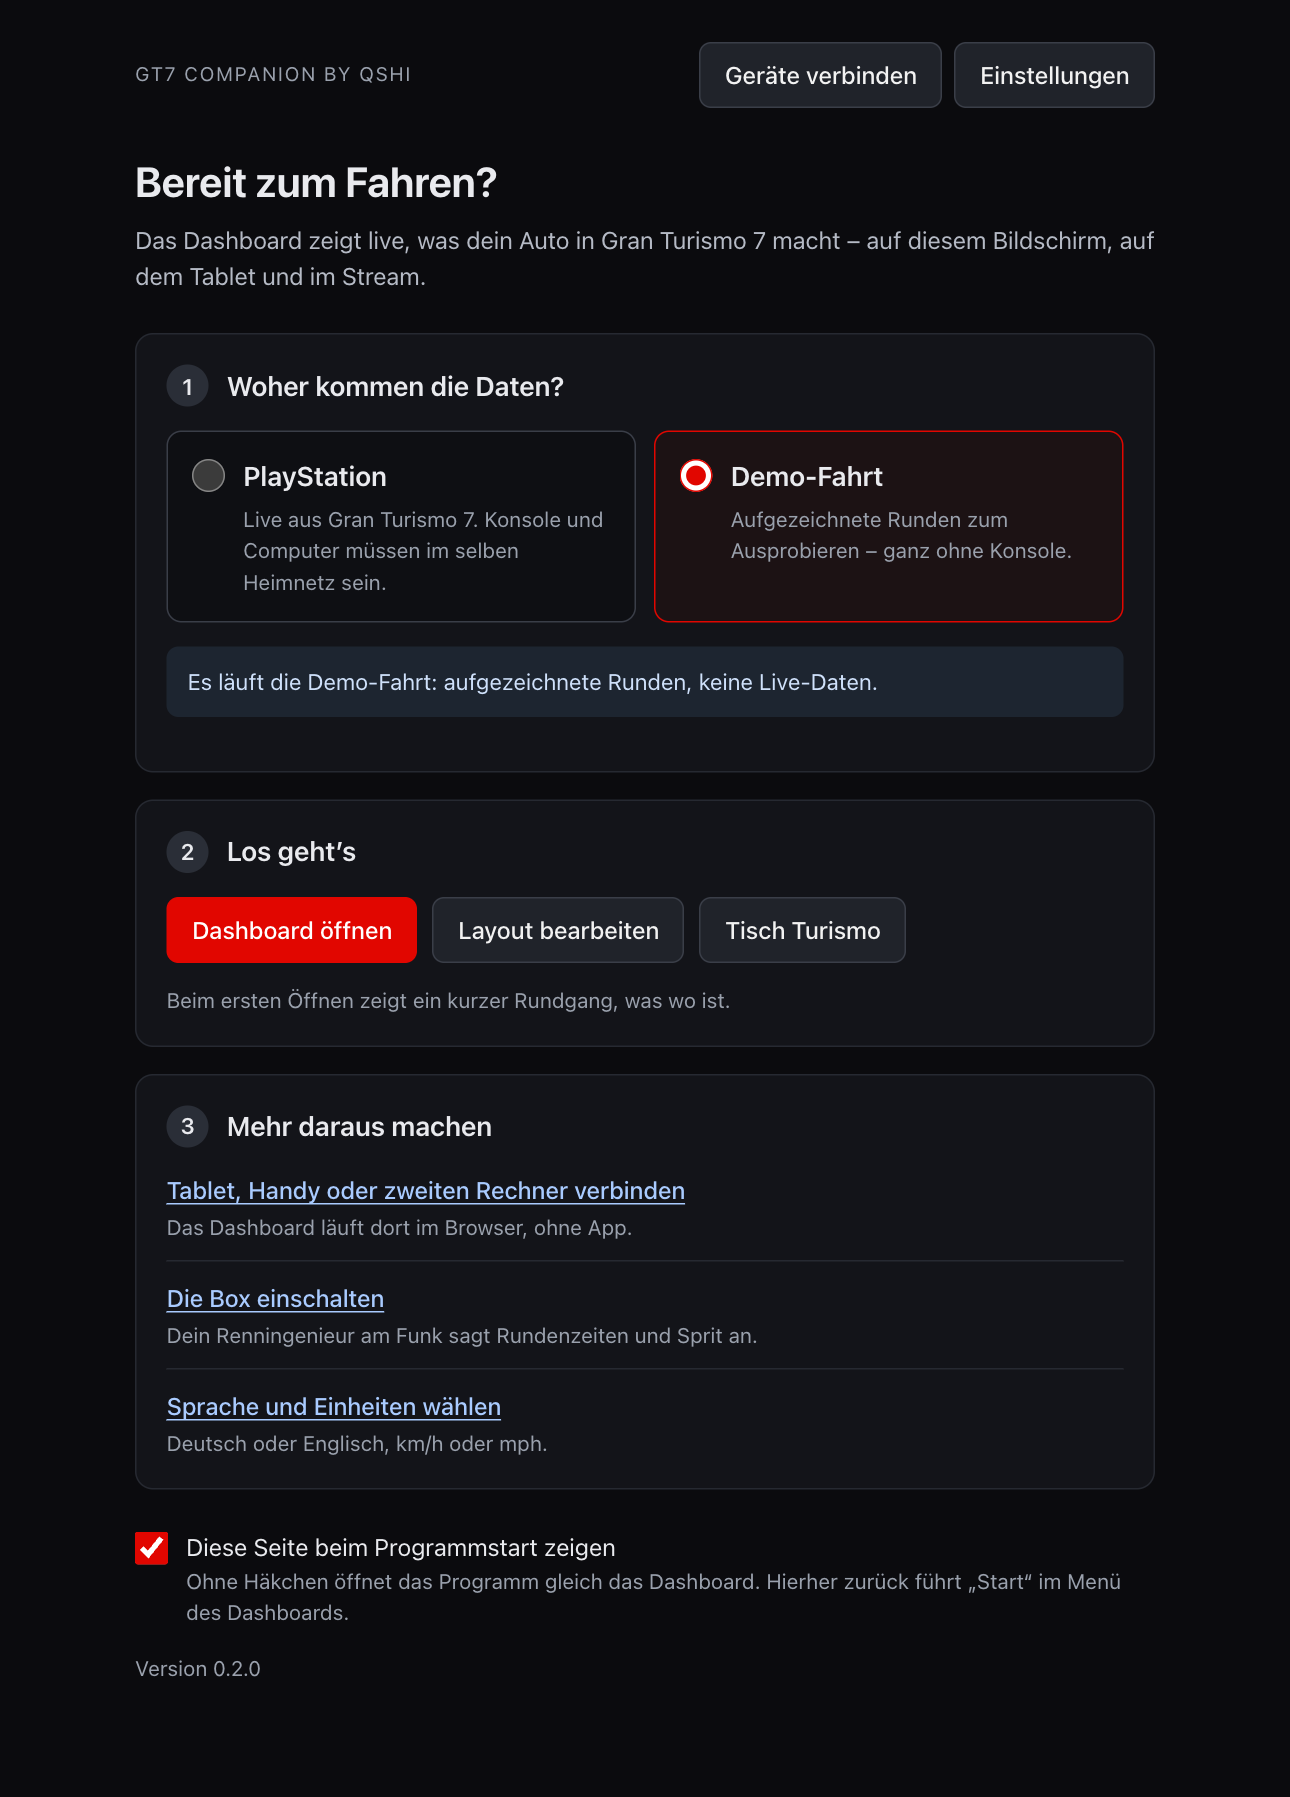
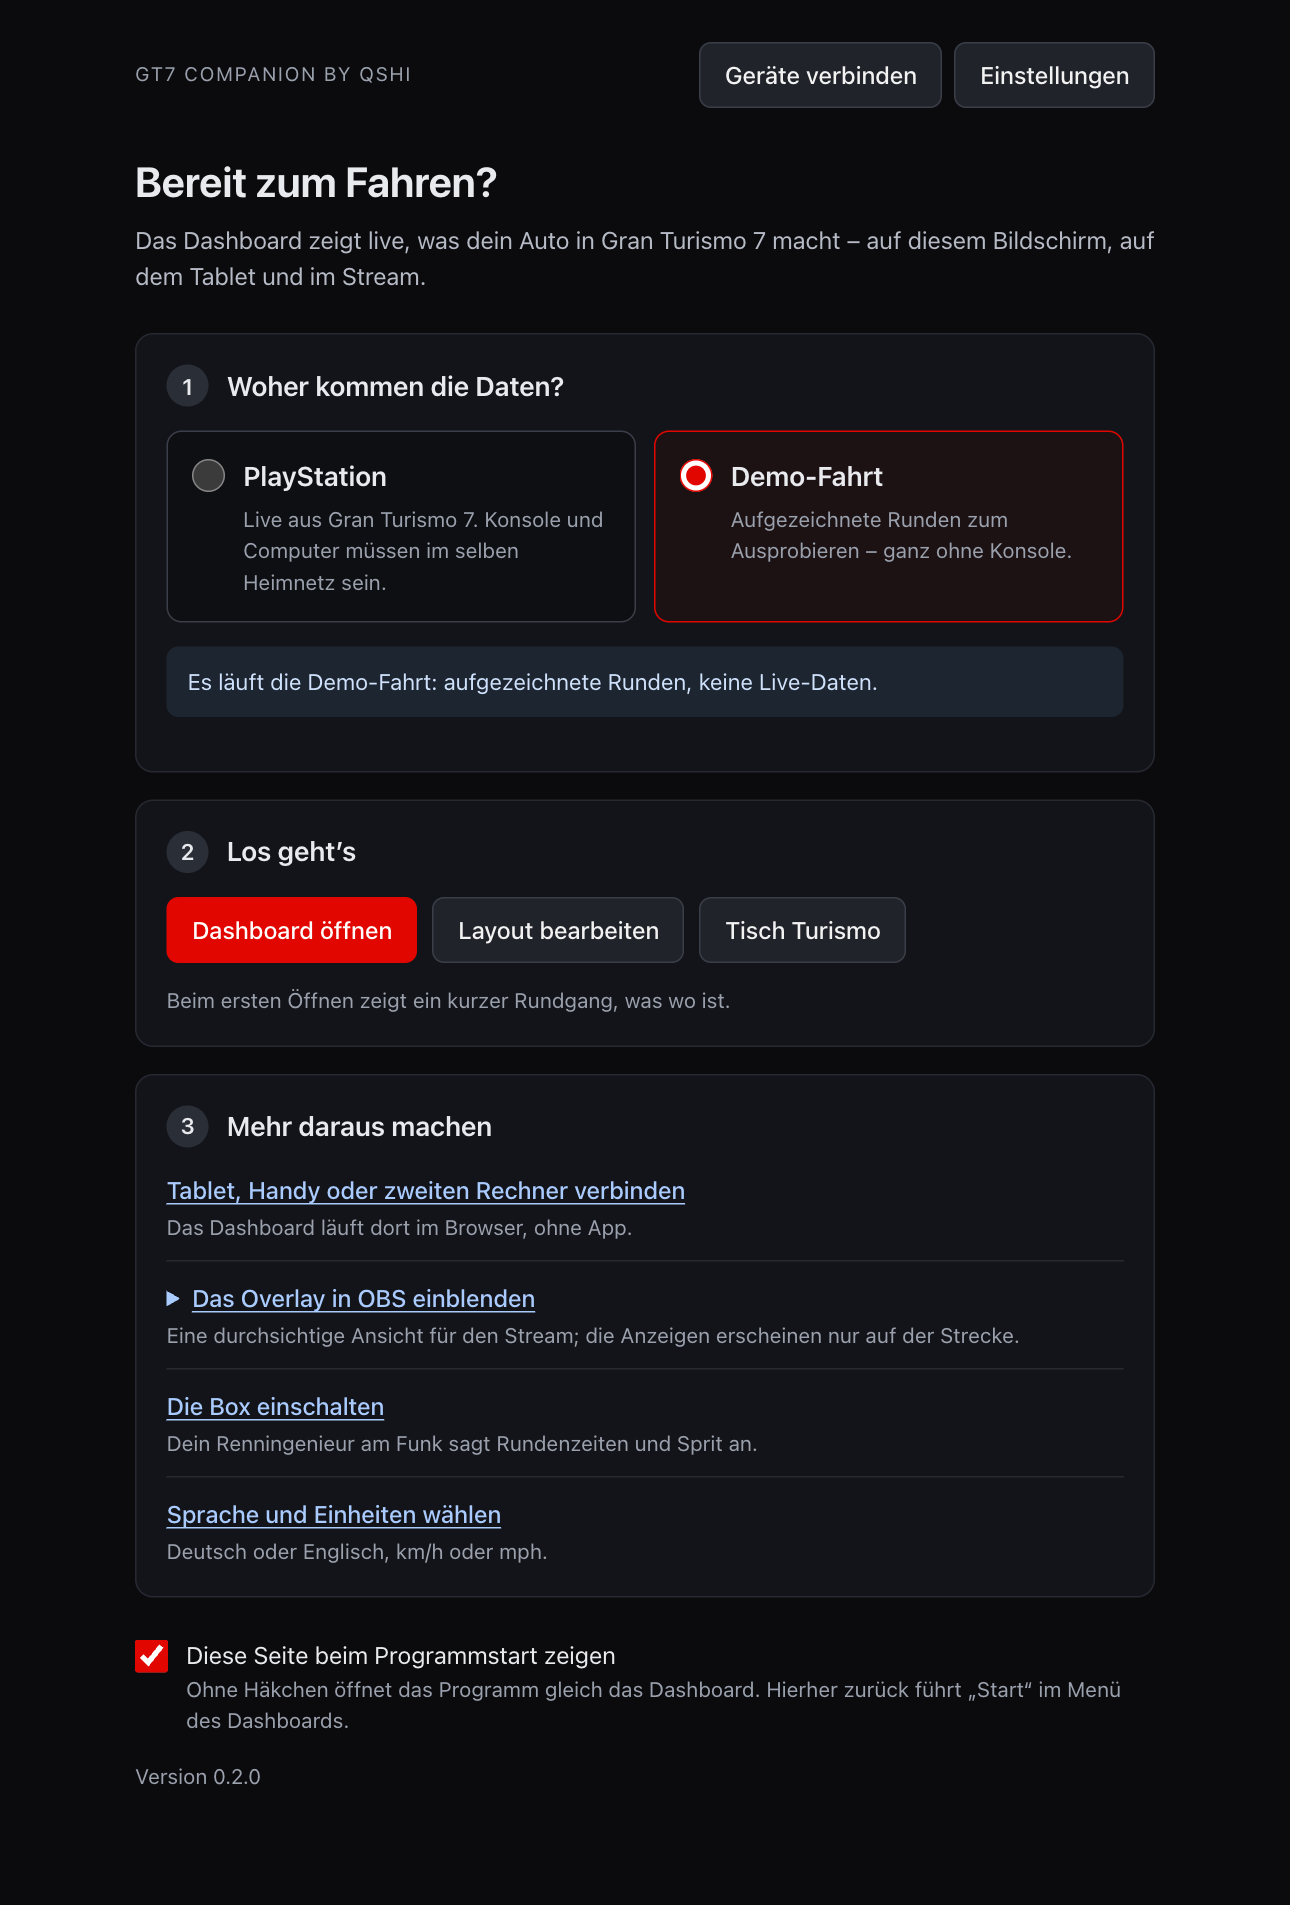
The start page and the guides explain how the overlay gets into OBS
The start page lists the overlay for a stream among the things to make
more of it: three steps and the address OBS has to be given, ready to be
copied. README and install guide describe the same step by step – where the
browser source is added, its size, the voice of the Box in the mixer, OBS
on another computer – and the install guide has the editor's paragraphs
back where the editor is introduced.

diff --git a/src/gt7companion/web/static/i18n/en.js b/src/gt7companion/web/static/i18n/en.js
@@ -587,5 +587,11 @@ window.GT7_TEXTS_EN = {
   "Sichern und zurück": "Save and go back",
   "Änderungen speichern sich von selbst. „Layout speichern“ hält einen Stand fest, zu dem „Zurücksetzen“ zurückkehrt. „Rückgängig“ nimmt den letzten Schritt zurück.": "Changes save themselves. “Save layout” keeps a state that “Reset” returns to. “Undo” takes back the last step.",
   "Fertig?": "Done?",
-  "„Zur Ansicht“ bringt dich zurück ins Dashboard. „Hilfe“ zeigt diesen Rundgang noch einmal.": "“To the dashboard” takes you back to the dashboard. “Help” shows this tour again."
+  "„Zur Ansicht“ bringt dich zurück ins Dashboard. „Hilfe“ zeigt diesen Rundgang noch einmal.": "“To the dashboard” takes you back to the dashboard. “Help” shows this tour again.",
+  "Das Overlay in OBS einblenden": "Show the overlay in OBS",
+  "In OBS unter „Quellen“ auf + klicken und „Browser“ wählen.": "In OBS click + under “Sources” and choose “Browser”.",
+  "Diese Adresse als URL eintragen, dazu Breite 1920 und Höhe 1080:": "Enter this address as URL, with width 1920 and height 1080:",
+  "Die Quelle in der Liste über dein Spielbild ziehen.": "Drag the source above your game capture in the list.",
+  "Eine durchsichtige Ansicht für den Stream; die Anzeigen erscheinen nur auf der Strecke.": "A transparent view for the stream; the widgets show on the track only.",
+  "Kopiert": "Copied"
 };

diff --git a/src/gt7companion/web/static/js/pages/start.js b/src/gt7companion/web/static/js/pages/start.js
@@ -83,6 +83,27 @@ byId('open-dashboard').href = seen('view') ? '/' : '/?tour=1';
 byId('open-editor').href = seen('edit') ? '/?edit=1' : '/?edit=1&tour=1';
 byId('tour-note').hidden = seen('view');
 
+/* The overlay for a stream: the address OBS has to be given, ready to be copied. */
+const obsUrl = location.origin + '/?obs=1';
+const obsCopy = byId('obs-copy');
+byId('obs-url').textContent = obsUrl;
+obsCopy.addEventListener('click', function() {
+  /* Without a clipboard the address is marked, so Ctrl/Cmd+C takes it. */
+  const mark = function() {
+    const range = document.createRange();
+    range.selectNodeContents(byId('obs-url'));
+    const selection = getSelection();
+    selection.removeAllRanges();
+    selection.addRange(range);
+  };
+  const copied = function() {
+    obsCopy.textContent = 'Kopiert';
+    setTimeout(function() { obsCopy.textContent = 'Kopieren'; }, 2000);
+  };
+  if (navigator.clipboard && navigator.clipboard.writeText) navigator.clipboard.writeText(obsUrl).then(copied, mark);
+  else mark();
+});
+
 await load();
 setInterval(function() { if (!document.hidden && !busy) load(); }, 2000);
 document.addEventListener('visibilitychange', function() { if (!document.hidden) load(); });

diff --git a/src/gt7companion/web/start.html b/src/gt7companion/web/start.html
@@ -58,6 +58,18 @@
     <h2 class="stepped" id="step-more"><span class="step" aria-hidden="true">3</span>Mehr daraus machen</h2>
     <ul class="ways">
       <li><a href="/connect">Tablet, Handy oder zweiten Rechner verbinden</a><span>Das Dashboard läuft dort im Browser, ohne App.</span></li>
+      <li>
+        <details class="how">
+          <summary>Das Overlay in OBS einblenden</summary>
+          <ol>
+            <li>In OBS unter „Quellen“ auf + klicken und „Browser“ wählen.</li>
+            <li>Diese Adresse als URL eintragen, dazu Breite 1920 und Höhe 1080:
+              <div class="copy-row"><code id="obs-url"></code><button type="button" id="obs-copy">Kopieren</button></div></li>
+            <li>Die Quelle in der Liste über dein Spielbild ziehen.</li>
+          </ol>
+        </details>
+        <span>Eine durchsichtige Ansicht für den Stream; die Anzeigen erscheinen nur auf der Strecke.</span>
+      </li>
       <li><a href="/settings#box">Die Box einschalten</a><span>Dein Renningenieur am Funk sagt Rundenzeiten und Sprit an.</span></li>
       <li><a href="/settings">Sprache und Einheiten wählen</a><span>Deutsch oder Englisch, km/h oder mph.</span></li>
     </ul>

diff --git a/src/gt7companion/web/static/css/pages.css b/src/gt7companion/web/static/css/pages.css
@@ -96,3 +96,12 @@ ul.ways a { font-weight: 500; }
 ul.ways span { display: block; margin-top: 2px; color: #9aa1ad; font-size: 14px; }
 body.start label.check { margin-top: 26px; }
 @media (max-width: 520px) { .choice-grid { grid-template-columns: 1fr; } }
+details.how { margin: 0; }
+details.how summary { margin: 0; color: #a9cbff; font-weight: 500; text-decoration: underline; text-underline-offset: 3px; }
+details.how summary:focus-visible { outline: 2px solid #83b7fa; outline-offset: 2px; }
+details.how ol { margin: 12px 0 8px; padding-left: 22px; color: #cfd3db; font-size: 15px; }
+details.how ol li { padding: 0; border: 0; }
+details.how ol li + li { margin-top: 8px; }
+.copy-row { display: flex; flex-wrap: wrap; align-items: center; gap: 10px; margin-top: 8px; }
+.copy-row code { padding: 9px 12px; border: 1px solid #3a3e48; border-radius: 8px; background: #0e0f13; color: #f2f2f2;
+  font: 500 14px/1.3 ui-monospace, "SF Mono", Menlo, Consolas, monospace; word-break: break-all; user-select: all; -webkit-user-select: all; }

diff --git a/tests/test_browser.py b/tests/test_browser.py
@@ -725,6 +725,17 @@ class StartPageAndTour(Pages):
         self.assertTrue(page.evaluate("document.getElementById('start-screen-row').hidden"))
         self.assertEqual(page.get_attribute("#source-locked a", "href"), "/connect?next=/start")
 
+    def test_the_start_page_tells_how_the_overlay_gets_into_obs(self):
+        page = self.open_plain("start", permissions=["clipboard-read", "clipboard-write"])
+        page.wait_for_function("() => !document.getElementById('choices').disabled")
+        address = f"http://127.0.0.1:{self.port}/?obs=1"
+        self.assertEqual(page.text_content("#obs-url"), address)
+        self.assertFalse(page.is_visible("#obs-copy"))                    # folded away until it is asked for
+        page.click("details.how summary")
+        page.click("#obs-copy")
+        page.wait_for_function("() => document.getElementById('obs-copy').textContent === 'Kopiert'")
+        self.assertEqual(page.evaluate("() => navigator.clipboard.readText()"), address)
+
     def test_the_start_page_in_english_on_a_phone(self):
         page = self.open_plain("start", size=(390, 844), locale="en-US")
         page.wait_for_function("() => !document.getElementById('choices').disabled")

diff --git a/docs/INSTALL.de.md b/docs/INSTALL.de.md
@@ -100,6 +100,18 @@ mit **Bearbeiten** ordnest du das Dashboard um, **Hilfe** zeigt die Sprechblasen
 
 <img src="images/de/menu.png" width="540" alt="Menu">
 
+Unter **Bearbeiten** werden Änderungen automatisch gespeichert. **Layout speichern** sichert
+einen Stand für dieses Layout; **Zurücksetzen** kehrt dorthin zurück. Bestehende Layouts werden
+vor dem ersten Autosave nach einem Update gesichert. Zur mitgelieferten Vorlage führt dagegen
+**Eigenes Layout** → **Vorlage wiederherstellen**, bestätigt mit einem zweiten Klick.
+
+**Rückgängig** oder Strg/Cmd+Z nimmt die letzte Änderung zurück (bis zu 100); ein Ziehen zählt
+als eine Änderung. Anzeige wählen, dann **Stil kopieren** / **Stil einfügen** oder Strg/Cmd+C/V,
+um Stil und Größe zu übertragen. Unter **Styling** steht die globale Schriftwahl, am Pinsel
+die Schrift einer einzelnen Anzeige. Für Milchglas und Dackel gibt es dort außerdem
+**Bewegung** → **Empfindlichkeit** (5–500%). Das Glas startet bei 25%, der Dackel bei 100%;
+bereits eingestellte eigene Werte bleiben erhalten.
+
 ## 4. PlayStation verbinden
 
 1. PlayStation und Rechner sind im selben Heimnetz (kein Gäste-WLAN).
@@ -129,25 +141,28 @@ die PIN von derselben Seite eingeben.
 
 ## 6. Stream-Overlay in OBS
 
-Unter **Bearbeiten** werden Änderungen automatisch gespeichert. **Layout speichern** sichert
-einen Stand für dieses Layout; **Zurücksetzen** kehrt dorthin zurück. Bestehende Layouts werden
-vor dem ersten Autosave nach einem Update gesichert. Zur mitgelieferten Vorlage führt dagegen
-**Eigenes Layout** → **Vorlage wiederherstellen**, bestätigt mit einem zweiten Klick.
+Das Overlay ist eine eigene, durchsichtige Ansicht für den Stream. So kommt es in OBS:
 
-**Rückgängig** oder Strg/Cmd+Z nimmt die letzte Änderung zurück (bis zu 100); ein Ziehen zählt
-als eine Änderung. Anzeige wählen, dann **Stil kopieren** / **Stil einfügen** oder Strg/Cmd+C/V,
-um Stil und Größe zu übertragen. Unter **Styling** steht die globale Schriftwahl, am Pinsel
-die Schrift einer einzelnen Anzeige. Für Milchglas und Dackel gibt es dort außerdem
-**Bewegung** → **Empfindlichkeit** (5–500%). Das Glas startet bei 25%, der Dackel bei 100%;
-bereits eingestellte eigene Werte bleiben erhalten.
-
-Eine Quelle der Art **Browser** anlegen, Breite 1920, Höhe 1080, Adresse:
+1. Das Programm läuft – sein Fenster darf zu sein.
+2. In OBS unter **Quellen** auf **+** klicken, **Browser** wählen, einen Namen vergeben, **OK**.
+3. Bei **URL** die Adresse unten eintragen, **Breite** 1920, **Höhe** 1080 (bei einer anderen
+   Stream-Größe die Maße deiner Leinwand), dann **OK**.
+4. Die Quelle in der Liste über dein Spielbild ziehen.
 
 ```
 http://127.0.0.1:8707/?obs=1
 ```
 
 <img src="images/de/overlay.png" width="640" alt="Overlay">
+
+- Die Quelle ist durchsichtig. Die Fahranzeigen erscheinen nur auf der Strecke; in den Menüs des
+  Spiels blenden sie sich aus.
+- Anordnen: im Programm **Bearbeiten** öffnen, oben das Layout **Overlay für den Stream 16:9**
+  wählen und die Anzeigen verschieben. OBS zeigt jede Änderung sofort.
+- Die Stimme der Box kommt auch aus dieser Quelle. Mit **Audio über OBS steuern** in den
+  Eigenschaften der Quelle bekommt sie im Mixer einen eigenen Regler.
+- Läuft OBS auf einem anderen Rechner: Symbol → **Im Heimnetz freigeben** und statt `127.0.0.1`
+  die Adresse von der Seite **Geräte verbinden** nehmen.
 
 Das kleine Spiel **Tisch Turismo** – ein Spielzeugauto auf einem Schreibtisch, das nachfährt, was
 du fährst – ist eine zweite Quelle derselben Art: Breite 1536, Höhe 864, Adresse:

diff --git a/docs/INSTALL.md b/docs/INSTALL.md
@@ -95,6 +95,17 @@ back to the start page:
 
 <img src="images/en/menu.png" width="540" alt="Menu">
 
+In **Edit**, changes save automatically. **Save layout** keeps a checkpoint for this layout;
+**Reset** returns to it. Existing layouts are protected before their first autosave after an
+update. To return to a shipped preset instead, open **Own layout** → **Restore preset** and
+confirm with a second click.
+
+**Undo** or Ctrl/Cmd+Z reverses the last change (up to 100); a drag is one change. Select a
+widget, then **Copy style** / **Paste style**, or Ctrl/Cmd+C/V, to transfer its style and scale.
+Choose a global font under **Styling**, or an individual font with the widget's brush.
+For the glass or dachshund, the brush also has **Movement** → **Sensitivity** (5–500%).
+The glass starts at 25%, the dachshund at 100%; an existing custom value stays as it is.
+
 ## 4. Connect your PlayStation
 
 1. PlayStation and computer are in the same home network (not a guest Wi-Fi).
@@ -124,24 +135,28 @@ PIN from the same page.
 
 ## 6. Stream overlay in OBS
 
-In **Edit**, changes save automatically. **Save layout** keeps a checkpoint for this layout;
-**Reset** returns to it. Existing layouts are protected before their first autosave after an
-update. To return to a shipped preset instead, open **Own layout** → **Restore preset** and
-confirm with a second click.
+The overlay is a transparent view of its own for the stream. This is how it gets into OBS:
 
-**Undo** or Ctrl/Cmd+Z reverses the last change (up to 100); a drag is one change. Select a
-widget, then **Copy style** / **Paste style**, or Ctrl/Cmd+C/V, to transfer its style and scale.
-Choose a global font under **Styling**, or an individual font with the widget's brush.
-For the glass or dachshund, the brush also has **Movement** → **Sensitivity** (5–500%).
-The glass starts at 25%, the dachshund at 100%; an existing custom value stays as it is.
-
-Add a source of the kind **Browser**, width 1920, height 1080, address:
+1. The program is running – its window may be closed.
+2. In OBS click **+** under **Sources**, choose **Browser**, give it a name, **OK**.
+3. Enter the address below as **URL**, **Width** 1920, **Height** 1080 (the size of your canvas
+   if you stream in another size), then **OK**.
+4. Drag the source above your game capture in the list.
 
 ```
 http://127.0.0.1:8707/?obs=1
 ```
 
 <img src="images/en/overlay.png" width="640" alt="Overlay">
+
+- The source is transparent. The driving widgets show on the track only; in the game's menus
+  they hide.
+- Arranging: open **Edit** in the program, choose the layout **Stream overlay 16:9** at the top
+  and move the widgets. OBS shows every change at once.
+- The voice of the Box comes out of this source, too. With **Control audio via OBS** in the
+  source's properties it gets a fader of its own in the mixer.
+- If OBS runs on another computer: symbol → **Share in the home network**, and use the address
+  from the page **Connect devices** instead of `127.0.0.1`.
 
 The little game **Tisch Turismo** – a toy car on a desk that drives what you drive – is a second
 source of the same kind: width 1536, height 864, address:

diff --git a/README.de.md b/README.de.md
@@ -151,10 +151,26 @@ die Seite ohne die Leisten des Browsers.
 
 ## OBS
 
-Eine Quelle *Browser* anlegen, 1920 × 1080, mit der Adresse `http://127.0.0.1:8707/?obs=1`.
-Sie ist durchsichtig, zeigt das Overlay-Layout und blendet die Fahranzeigen aus, solange du in
-den Menüs bist. `?layout=<Name>` wählt ein anderes Layout, `?lang=en` und `?units=imperial`
-stellen Sprache und Einheiten für diese Quelle ein.
+Das Overlay ist eine eigene, durchsichtige Ansicht für den Stream. So kommt es in OBS:
+
+1. Das Programm läuft – sein Fenster darf zu sein.
+2. In OBS unter **Quellen** auf **+** klicken, **Browser** wählen, einen Namen vergeben, **OK**.
+3. Eintragen: **URL** `http://127.0.0.1:8707/?obs=1`, **Breite** 1920, **Höhe** 1080 (bei einer
+   anderen Stream-Größe die Maße deiner Leinwand), dann **OK**.
+4. Die Quelle in der Liste über dein Spielbild ziehen.
+
+Gut zu wissen:
+
+- Die Quelle ist durchsichtig. Die Fahranzeigen erscheinen nur auf der Strecke; in den Menüs des
+  Spiels blenden sie sich aus.
+- Anordnen: im Programm **Bearbeiten** öffnen, oben das Layout „Overlay für den Stream 16:9“
+  wählen und die Anzeigen verschieben. OBS zeigt jede Änderung sofort.
+- Die Stimme der Box kommt auch aus dieser Quelle. Mit **Audio über OBS steuern** in den
+  Eigenschaften der Quelle bekommt sie im Mixer einen eigenen Regler.
+- Läuft OBS auf einem anderen Rechner: „Im Heimnetz freigeben“ einschalten und statt
+  `127.0.0.1` die Adresse von der Seite *Geräte verbinden* nehmen.
+- `?layout=<Name>` wählt ein anderes Layout, `?lang=en` und `?units=imperial` stellen Sprache
+  und Einheiten für diese Quelle ein.
 
 ## Tisch Turismo – das Spiel auf dem Schreibtisch
 

diff --git a/README.md b/README.md
@@ -146,10 +146,26 @@ Access" on an iPad). Adding the page to the home screen shows it without the bro
 
 ## OBS
 
-Add a *Browser* source, 1920 × 1080, with the address `http://127.0.0.1:8707/?obs=1`.
-It is transparent, shows the overlay layout and hides the driving widgets while you are in
-the menus. `?layout=<name>` picks another layout, `?lang=en` and `?units=imperial` set
-language and units for this source.
+The overlay is a transparent view of its own for the stream. This is how it gets into OBS:
+
+1. The program is running – its window may be closed.
+2. In OBS click **+** under **Sources**, choose **Browser**, give it a name, **OK**.
+3. Enter: **URL** `http://127.0.0.1:8707/?obs=1`, **Width** 1920, **Height** 1080 (the size of
+   your canvas if you stream in another size), then **OK**.
+4. Drag the source above your game capture in the list.
+
+Good to know:
+
+- The source is transparent. The driving widgets show on the track only; in the game's menus
+  they hide.
+- Arranging: open **Edit** in the program, choose the layout "Stream overlay 16:9" at the top
+  and move the widgets. OBS shows every change at once.
+- The voice of the Box comes out of this source, too. With **Control audio via OBS** in the
+  source's properties it gets a fader of its own in the mixer.
+- If OBS runs on another computer: switch on "Share in the home network" and use the address
+  from the page *Connect devices* instead of `127.0.0.1`.
+- `?layout=<name>` picks another layout, `?lang=en` and `?units=imperial` set language and
+  units for this source.
 
 ## Tisch Turismo – the game on the desk
 
